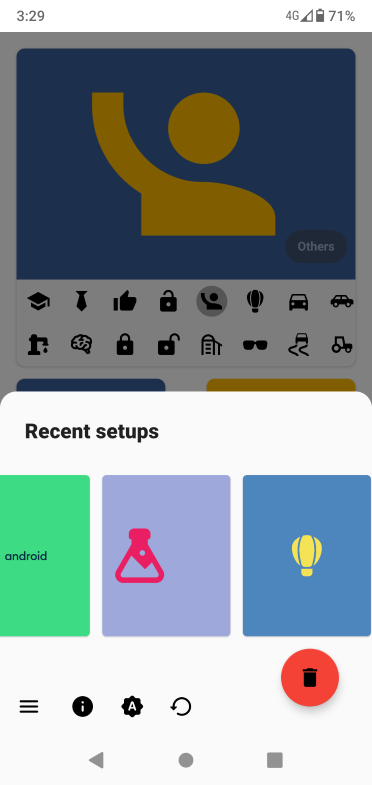
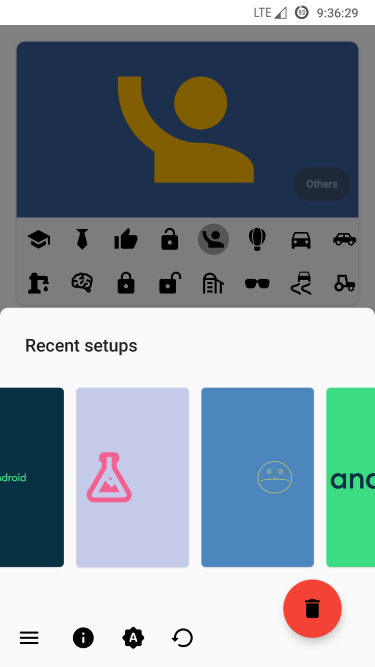
Release 1.9.2

diff --git a/README.md b/README.md
@@ -5,7 +5,7 @@
 [![Credits](https://img.shields.io/static/v1?label=Contributors&message=many&color=81d4fa)](https://github.com/enricocid/VectorifyDaHome/blob/master/Credits.md)
 
 [![API](https://img.shields.io/static/v1?label=API&message=21&color=a5d6a7)](https://developer.android.com/about/versions/android-5.0.html)
-[![TAG](https://img.shields.io/static/v1?label=Tag&message=v1.9.1&color=ffe082)](https://github.com/enricocid/VectorifyDaHome/releases)
+[![TAG](https://img.shields.io/static/v1?label=Tag&message=v1.9.2&color=ffe082)](https://github.com/enricocid/VectorifyDaHome/releases)
 <a href="https://github.com/enricocid/VectorifyDaHome/actions">
 <img alt="CI" src="https://github.com/enricocid/VectorifyDaHome/workflows/Android%20CI/badge.svg">
 </a>
@@ -14,7 +14,7 @@
 <img src="https://hosted.weblate.org/widgets/vectorify-da-home/-/287x66-white.png" />
 </a>
 
-<img align="right" src="art1.gif" height="500px"/>
+<img align="right" src="art2.gif" height="500px"/>
 
 
 # Description:
